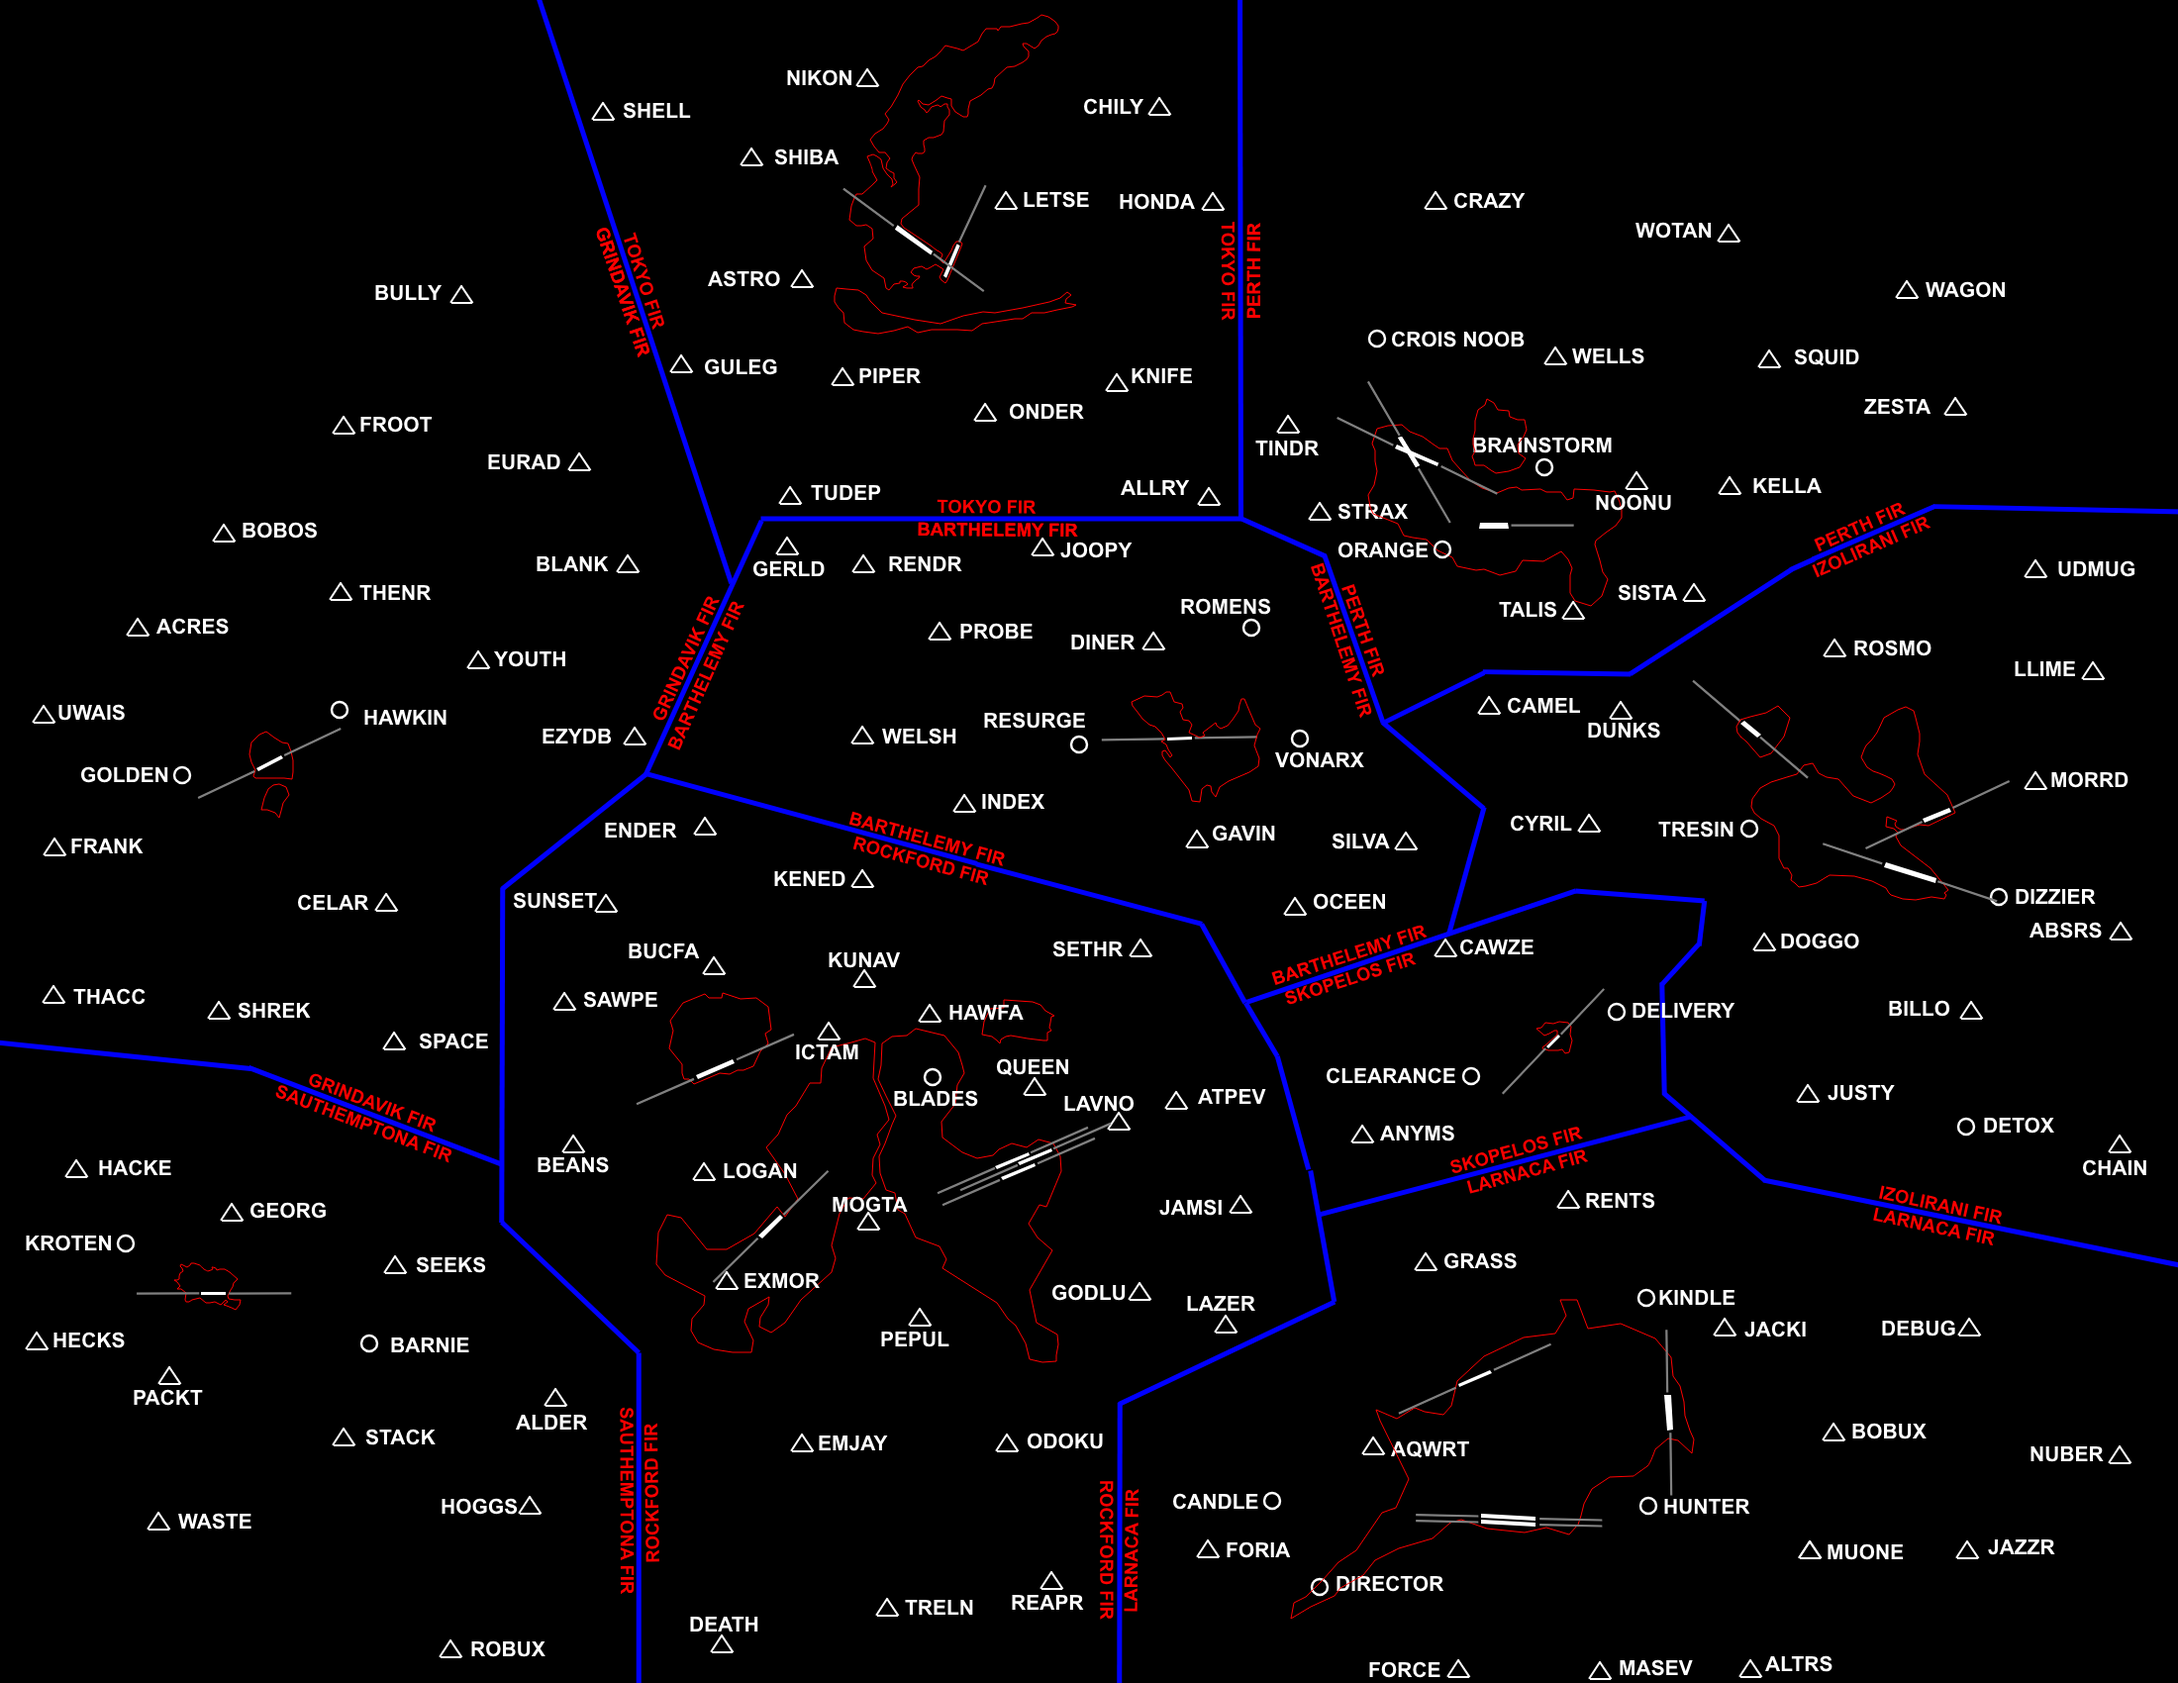
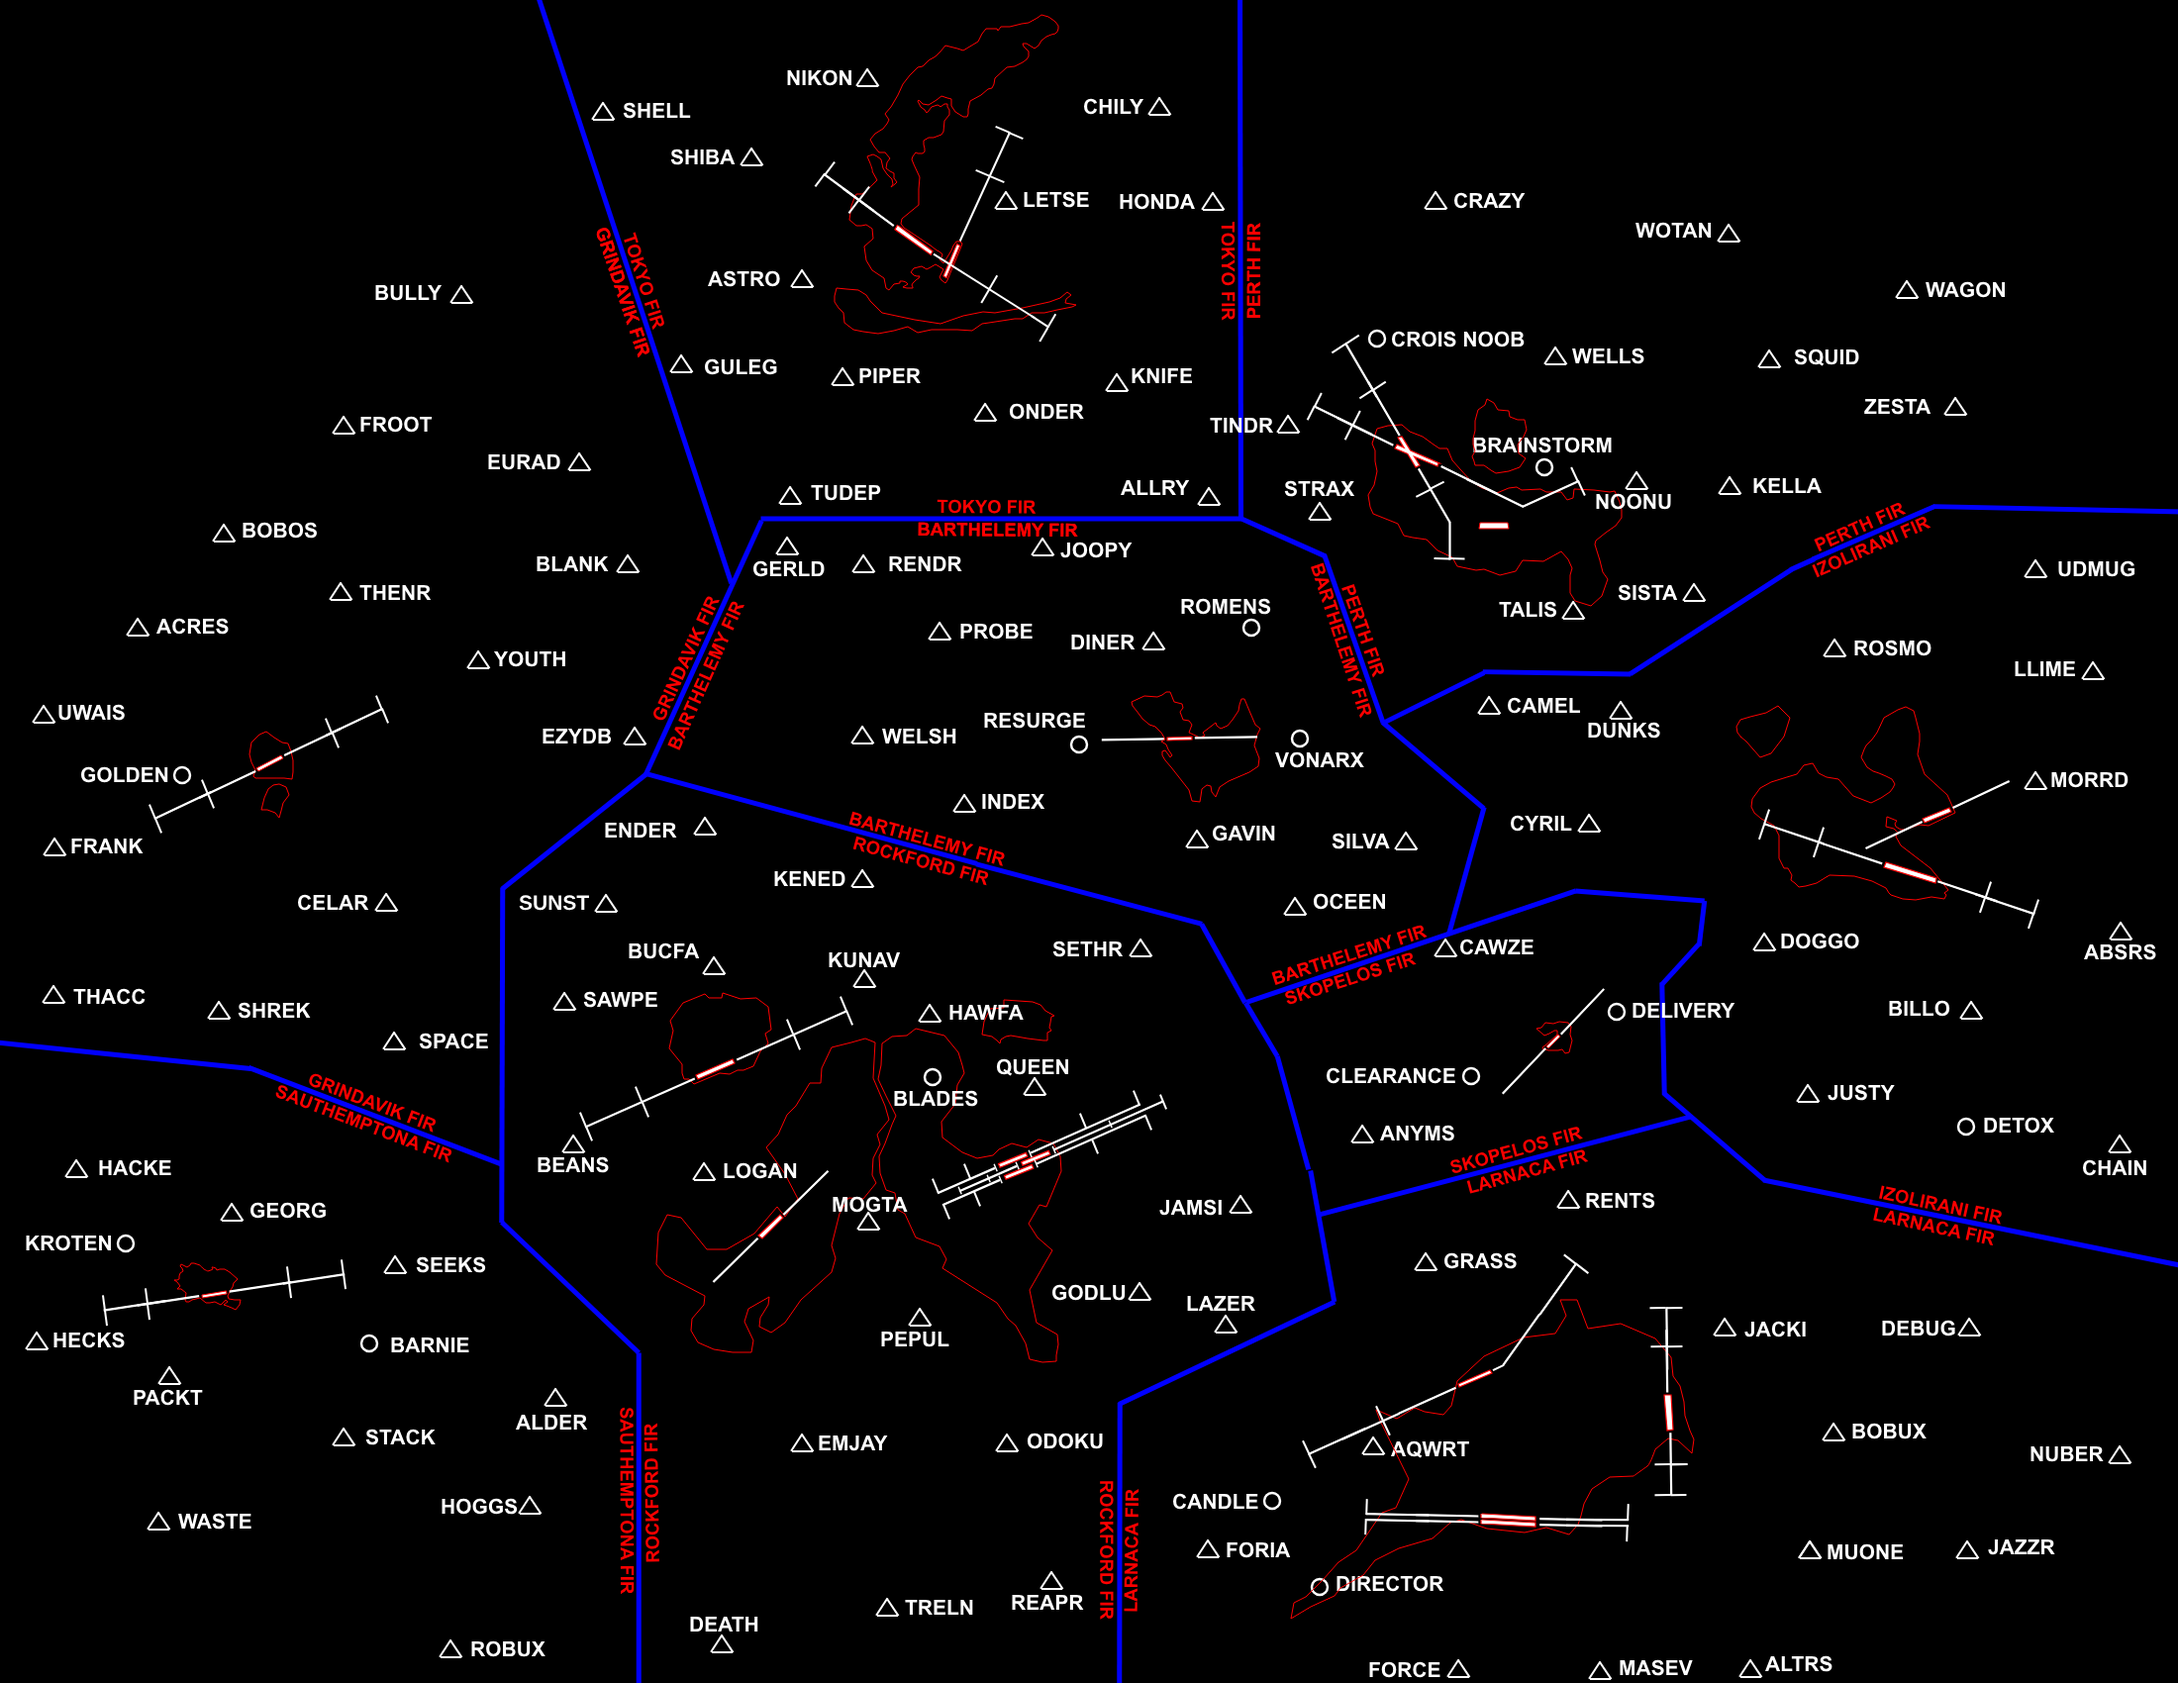
UI update + Distance Measurement tool

diff --git a/script.js b/script.js
@@ -1,98 +1,111 @@
-const radar = document.getElementById('radar');
-let isDragging = false;
-let startX, startY, line, headingText;
+document.addEventListener('DOMContentLoaded', () => {
+    const modal = document.getElementById('info-modal');
+    const closeModalButton = document.getElementById('close-modal');
 
-function removeExistingLineAndHeading() {
-    if (line) {
-        radar.removeChild(line);
-        line = null;
-    }
-    if (headingText) {
-        radar.removeChild(headingText);
-        headingText = null;
-    }
-}
+    modal.style.display = 'flex';
 
-// Prevent default drag behavior on the radar element
-radar.addEventListener('dragstart', (e) => {
-    e.preventDefault(); // Prevent default drag behavior
+    closeModalButton.addEventListener('click', () => {
+        modal.style.display = 'none';
+    });
+
+    window.addEventListener('click', (e) => {
+        if (e.target === modal) {
+            modal.style.display = 'none';
+        }
+    });
+
+    const radar = document.getElementById('radar');
+    let isDragging = false;
+    let startX, startY, line, headingText;
+
+    function removeExistingLineAndHeading() {
+        if (line) {
+            radar.removeChild(line);
+            line = null;
+        }
+        if (headingText) {
+            radar.removeChild(headingText);
+            headingText = null;
+        }
+    }
+
+    radar.addEventListener('contextmenu', (e) => {
+        e.preventDefault();
+    });
+
+    radar.addEventListener('mousedown', (e) => {
+        if (e.button === 0 || e.button === 2) {
+            removeExistingLineAndHeading();
+
+            const rect = radar.getBoundingClientRect();
+            startX = e.clientX - rect.left;
+            startY = e.clientY - rect.top;
+            isDragging = true;
+
+            line = document.createElement('div');
+            line.classList.add('line');
+            line.style.left = `${startX}px`;
+            line.style.top = `${startY}px`;
+            radar.appendChild(line);
+        }
+    });
+
+    radar.addEventListener('mousemove', (e) => {
+        if (!isDragging) return;
+
+        const rect = radar.getBoundingClientRect();
+        const currentX = e.clientX - rect.left;
+        const currentY = e.clientY - rect.top;
+
+        const deltaX = currentX - startX;
+        const deltaY = currentY - startY;
+
+        const length = Math.sqrt(deltaX * deltaX + deltaY * deltaY);
+        let angle = Math.atan2(deltaY, deltaX) * (180 / Math.PI);
+
+        if (angle < 0) {
+            angle += 360;
+        }
+
+        line.style.width = `${length}px`;
+        line.style.transform = `rotate(${angle}deg)`;
+
+        if (e.buttons === 1) {
+            const displayedAngle = (angle + 90) % 360;
+            displayHeadingText(`${padNumber(Math.round(displayedAngle))}°`, (startX + currentX) / 2, (startY + currentY) / 2);
+        } else if (e.buttons === 2) {
+            const distanceInNauticalMiles = (length / 39.92) * 0.6447084;
+            displayHeadingText(`${distanceInNauticalMiles.toFixed(2)} NM`, (startX + currentX) / 2, (startY + currentY) / 2);
+        }
+    });
+
+    radar.addEventListener('mouseup', () => {
+        if (isDragging) {
+            isDragging = false;
+        }
+    });
+
+    radar.addEventListener('mouseleave', () => {
+        if (isDragging) {
+            isDragging = false;
+            removeExistingLineAndHeading();
+        }
+    });
+
+    function padNumber(number) {
+        return number.toString().padStart(3, '0');
+    }
+
+    function displayHeadingText(text, midX, midY) {
+        if (headingText) {
+            radar.removeChild(headingText);
+        }
+
+        headingText = document.createElement('div');
+        headingText.classList.add('heading');
+        headingText.textContent = text;
+        headingText.style.left = `${midX}px`;
+        headingText.style.top = `${midY}px`;
+        radar.appendChild(headingText);
+    }
 });
-
-radar.addEventListener('mousedown', (e) => {
-    removeExistingLineAndHeading();
-
-    const rect = radar.getBoundingClientRect();
-    startX = e.clientX - rect.left;
-    startY = e.clientY - rect.top;
-    isDragging = true;
-
-    line = document.createElement('div');
-    line.classList.add('line');
-    line.style.left = `${startX}px`;
-    line.style.top = `${startY}px`;
-    radar.appendChild(line);
-});
-
-radar.addEventListener('mousemove', (e) => {
-    if (!isDragging) return;
-
-    const rect = radar.getBoundingClientRect();
-    const currentX = e.clientX - rect.left;
-    const currentY = e.clientY - rect.top;
-
-    const deltaX = currentX - startX;
-    const deltaY = currentY - startY;
-
-    const length = Math.sqrt(deltaX * deltaX + deltaY * deltaY);
-    let angle = Math.atan2(deltaY, deltaX) * (180 / Math.PI);
-
-    if (angle < 0) {
-        angle += 360; // Convert angle to positive if it's negative
-    }
-
-    line.style.width = `${length}px`;
-    line.style.transform = `rotate(${angle}deg)`;
-
-    // Calculate displayed angle relative to the vertical line (0 degrees)
-    let displayedAngle = (angle + 90) % 360; // Shift by 90 degrees to start from the top
-
-    if (displayedAngle < 0) {
-        displayedAngle += 360;
-    }
-
-    // Display heading text dynamically during drag
-    displayHeadingText(displayedAngle, (startX + currentX) / 2, (startY + currentY) / 2);
-});
-
-radar.addEventListener('mouseup', () => {
-    if (isDragging) {
-        isDragging = false;
-    }
-});
-
-radar.addEventListener('mouseleave', () => {
-    if (isDragging) {
-        isDragging = false;
-        removeExistingLineAndHeading();
-    }
-});
-
-// Function to pad number to XXX format
-function padNumber(number) {
-    return number.toString().padStart(3, '0');
-}
-
-// Function to dynamically display heading text during drag
-function displayHeadingText(angle, midX, midY) {
-    if (headingText) {
-        radar.removeChild(headingText);
-    }
-
-    headingText = document.createElement('div');
-    headingText.classList.add('heading');
-
-    headingText.textContent = `${padNumber(Math.round(angle))}°`;
-    headingText.style.left = `${midX}px`;
-    headingText.style.top = `${midY}px`;
-    radar.appendChild(headingText);
-}

diff --git a/style.css b/style.css
@@ -5,6 +5,71 @@ body {
     align-items: center;
     height: 100vh;
     background-color: #f0f0f0;
+    font-family: 'Roboto', sans-serif;
+}
+
+#info-modal {
+    display: none;
+    position: fixed;
+    top: 0;
+    left: 0;
+    width: 100%;
+    height: 100%;
+    background: rgba(0, 0, 0, 0.7);
+    justify-content: center;
+    align-items: center;
+    z-index: 1000;
+}
+
+.modal-content {
+    background: white;
+    padding: 30px;
+    border-radius: 20px;
+    max-width: 600px;
+    width: 90%;
+    box-shadow: 0 0 15px rgba(0, 0, 0, 0.2);
+    text-align: center;
+}
+
+.modal-content h2 {
+    font-size: 24px;
+    margin-bottom: 20px;
+}
+
+.controls, .information {
+    margin-top: 20px;
+    text-align: left;
+}
+
+.controls strong, .information strong {
+    font-size: 18px;
+    display: block;
+    margin-bottom: 10px;
+}
+
+.controls ul, .information ul {
+    list-style-type: none;
+    padding: 0;
+}
+
+.controls li, .information li {
+    margin: 10px 0;
+    font-size: 16px;
+}
+
+button {
+    background-color: #007bff;
+    color: white;
+    border: none;
+    padding: 15px 25px;
+    border-radius: 12px;
+    cursor: pointer;
+    font-size: 18px;
+    margin-top: 20px;
+}
+
+button:hover {
+    background-color: #0056b3;
 }
 
 #radar {
@@ -13,15 +78,15 @@ body {
 
 #map-container {
     position: relative;
-    overflow: hidden; /* Ensure any overflow is hidden */
+    overflow: hidden;
 }
 
 #map {
     display: block;
-    border: 2px solid black; /* Add black border to map */
-    background-color: black; /* Set background color to black */
+    border: 2px solid black;
+    background-color: black;
     position: relative;
-    z-index: 1; /* Ensure map is on top of background */
+    z-index: 1;
 }
 
 .map-background {
@@ -31,23 +96,26 @@ body {
     width: 100%;
     height: 100%;
     background-color: black;
-    z-index: 0; /* Ensure background is behind the map */
+    z-index: 0;
 }
 
 .line {
     position: absolute;
-    height: 4px;
-    background-color: yellow; /* Change line color to yellow */
+    height: 6px;
+    background-color: yellow;
     transform-origin: top left;
-    z-index: 2; /* Ensure line is above background */
+    z-index: 2;
 }
 
 .heading {
     position: absolute;
     background-color: white;
-    padding: 2px 5px;
-    border: 1px solid black;
-    border-radius: 3px;
+    padding: 10px 15px;
+    border: 2px solid black;
+    border-radius: 15px;
     transform: translate(-50%, -50%);
-    z-index: 3; /* Ensure heading is above everything */
+    z-index: 3;
+    font-weight: bold;
+    font-family: 'Roboto', sans-serif;
+    font-size: 16px;
 }

diff --git a/index.html b/index.html
@@ -5,14 +5,39 @@
     <meta name="viewport" content="width=device-width, initial-scale=1.0">
     <title>ATC Radar</title>
     <link rel="stylesheet" href="style.css">
+    <link href="https://fonts.googleapis.com/css2?family=Roboto:wght@400;700&display=swap" rel="stylesheet">
 </head>
 <body>
+    <!-- Modal HTML -->
+    <div id="info-modal">
+        <div class="modal-content">
+            <h2>Made by p1anez</h2>
+            <div class="controls">
+                <strong>Controls:</strong>
+                <ul>
+                    <li>Left-click and drag for heading tool.</li>
+                    <li>Right-click and drag for distance tool.</li>
+                </ul>
+            </div>
+            <div class="information">
+                <strong>Information:</strong>
+                <ul>
+                    <li>Some Fixes have been removed to make space for the approach lines.</li>
+                    <li>On the approach lines, the first line indicates the aircraft should be at 1000FT, the second line indicates the aircraft should be at 500FT. Except for McConnell AFB, where the lines for all runways indicate 500FT.</li>
+                    <li>Data for approach lines have been retrieved from most accurate charts, approach lines without altitude indicators either: Don't have any data, Various charts, or Don't have enough data.</li>
+                </ul>
+            </div>
+            <button id="close-modal">Roger</button>
+        </div>
+    </div>
+    
     <div id="radar">
         <div id="map-container">
             <div class="map-background"></div>
             <img id="map" src="map.png" alt="Game Map">
         </div>
     </div>
+    
     <script src="script.js"></script>
 </body>
 </html>
